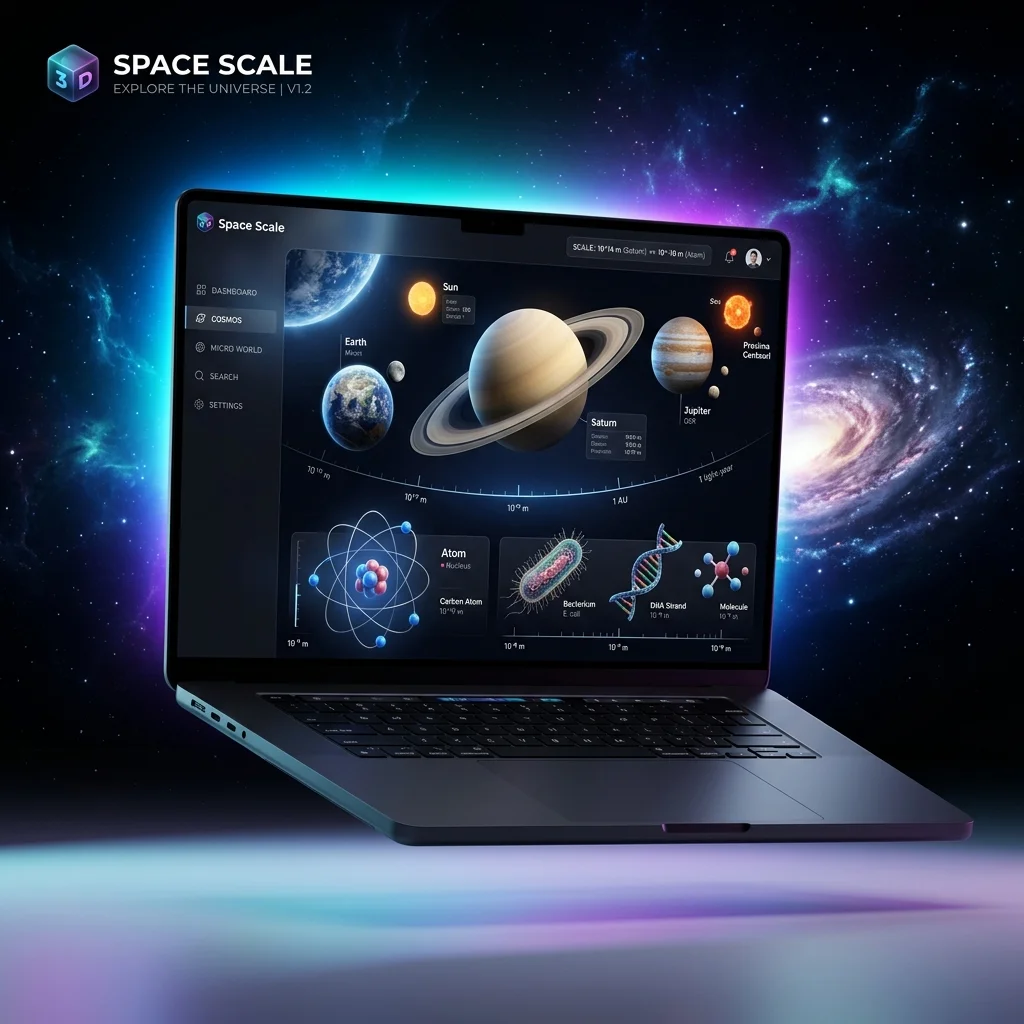
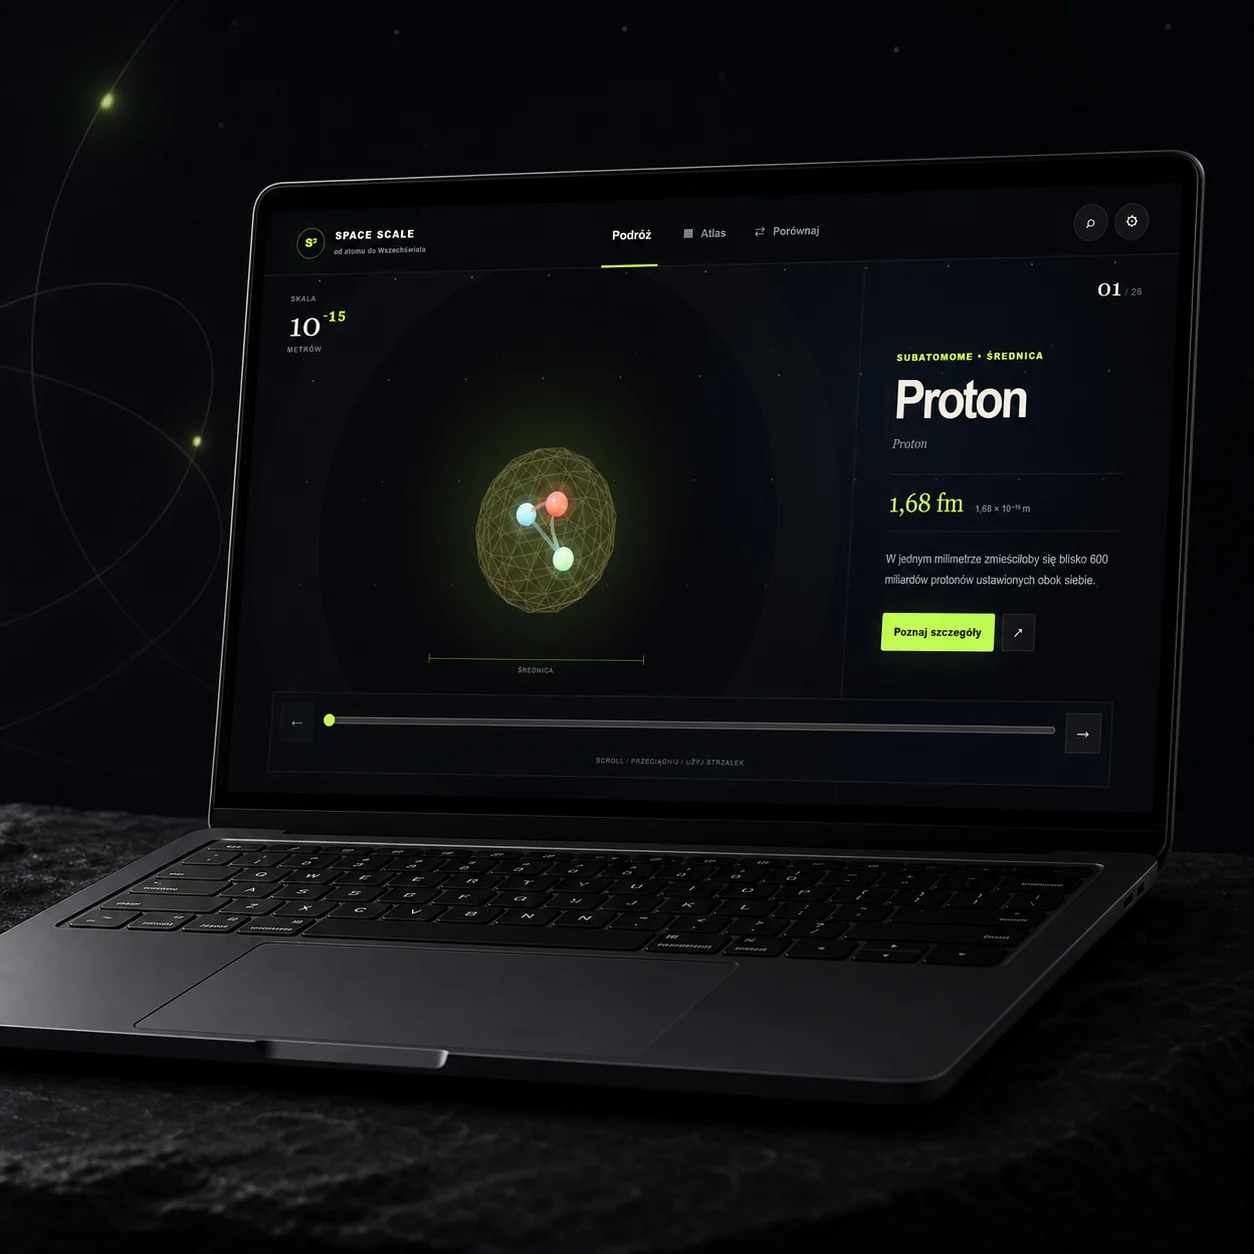
feat(projects): refresh Space Scale mockup

diff --git a/CHANGELOG.md b/CHANGELOG.md
@@ -8,12 +8,12 @@ stosują [Semantic Versioning](https://semver.org/).
 
 ### Changed
 
-- Dwadzieścia osiem mockupów projektów — APK://GENESIS, BRIXCORE, Beyond the Door,
+- Dwadzieścia dziewięć mockupów projektów — APK://GENESIS, BRIXCORE, Beyond the Door,
   CAN//FORM, EDM Music Festival, THE VAULT, Skin Elixir, APKMASON ARC,
   FRUIT ENERGY, Sfera, Evolution of the Phone, THE IRIS, Pure Form, From
   Sand to Silicon, Inside the Internet, SPARK, ASCENT, ORIGIN, Poznaj AI,
   VIBE//SHIFT, PCVerse, Budżet Domowy, Mechanika Czasu, Piątunio w Korpo,
-  ScrollDebt, Allergen Guard, RecAI i Top Seven — zastąpiono kadrami
+  ScrollDebt, Allergen Guard, RecAI, Top Seven i Space Scale — zastąpiono kadrami
   przygotowanymi na podstawie aktualnych assetów źródłowych i zapisanymi jako
   zoptymalizowane WebP; THE VAULT
   pokazuje bieżącą, jednoczęściową płytę drzwi otwieraną w prawo, a EDM
